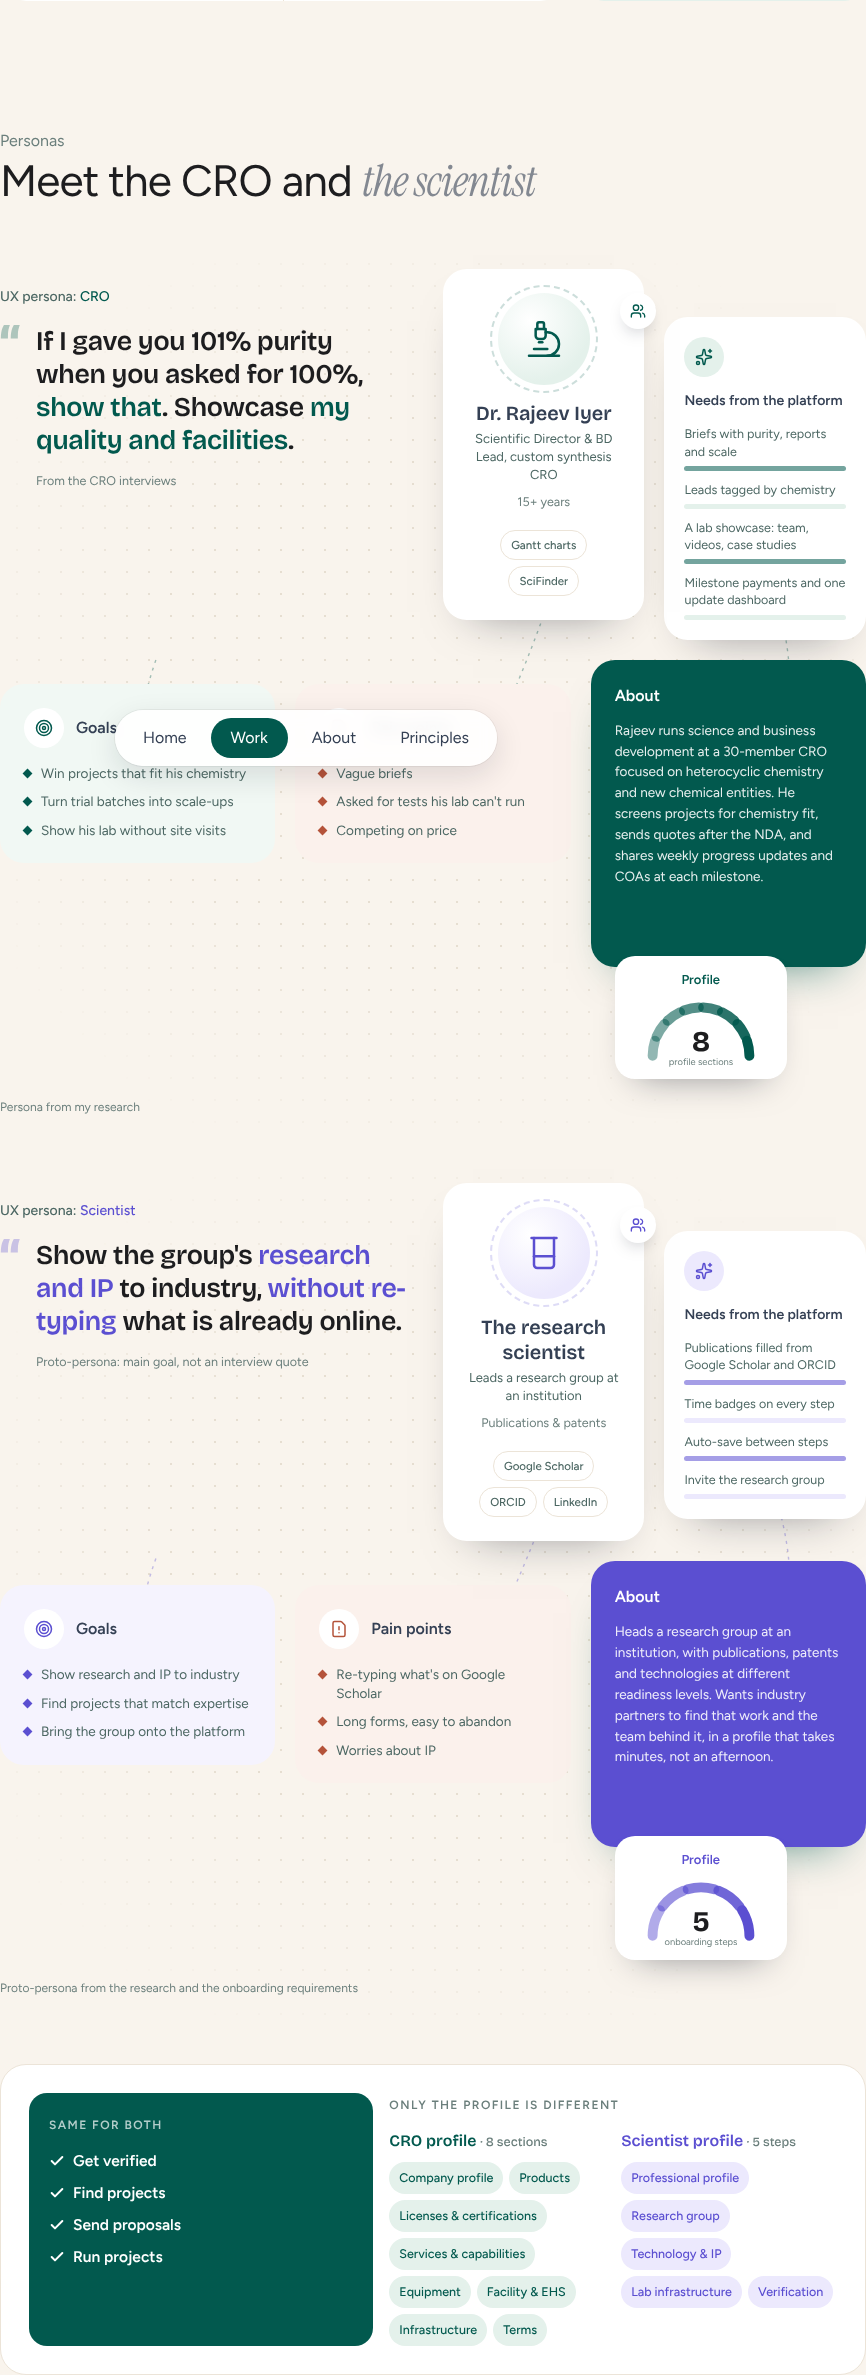
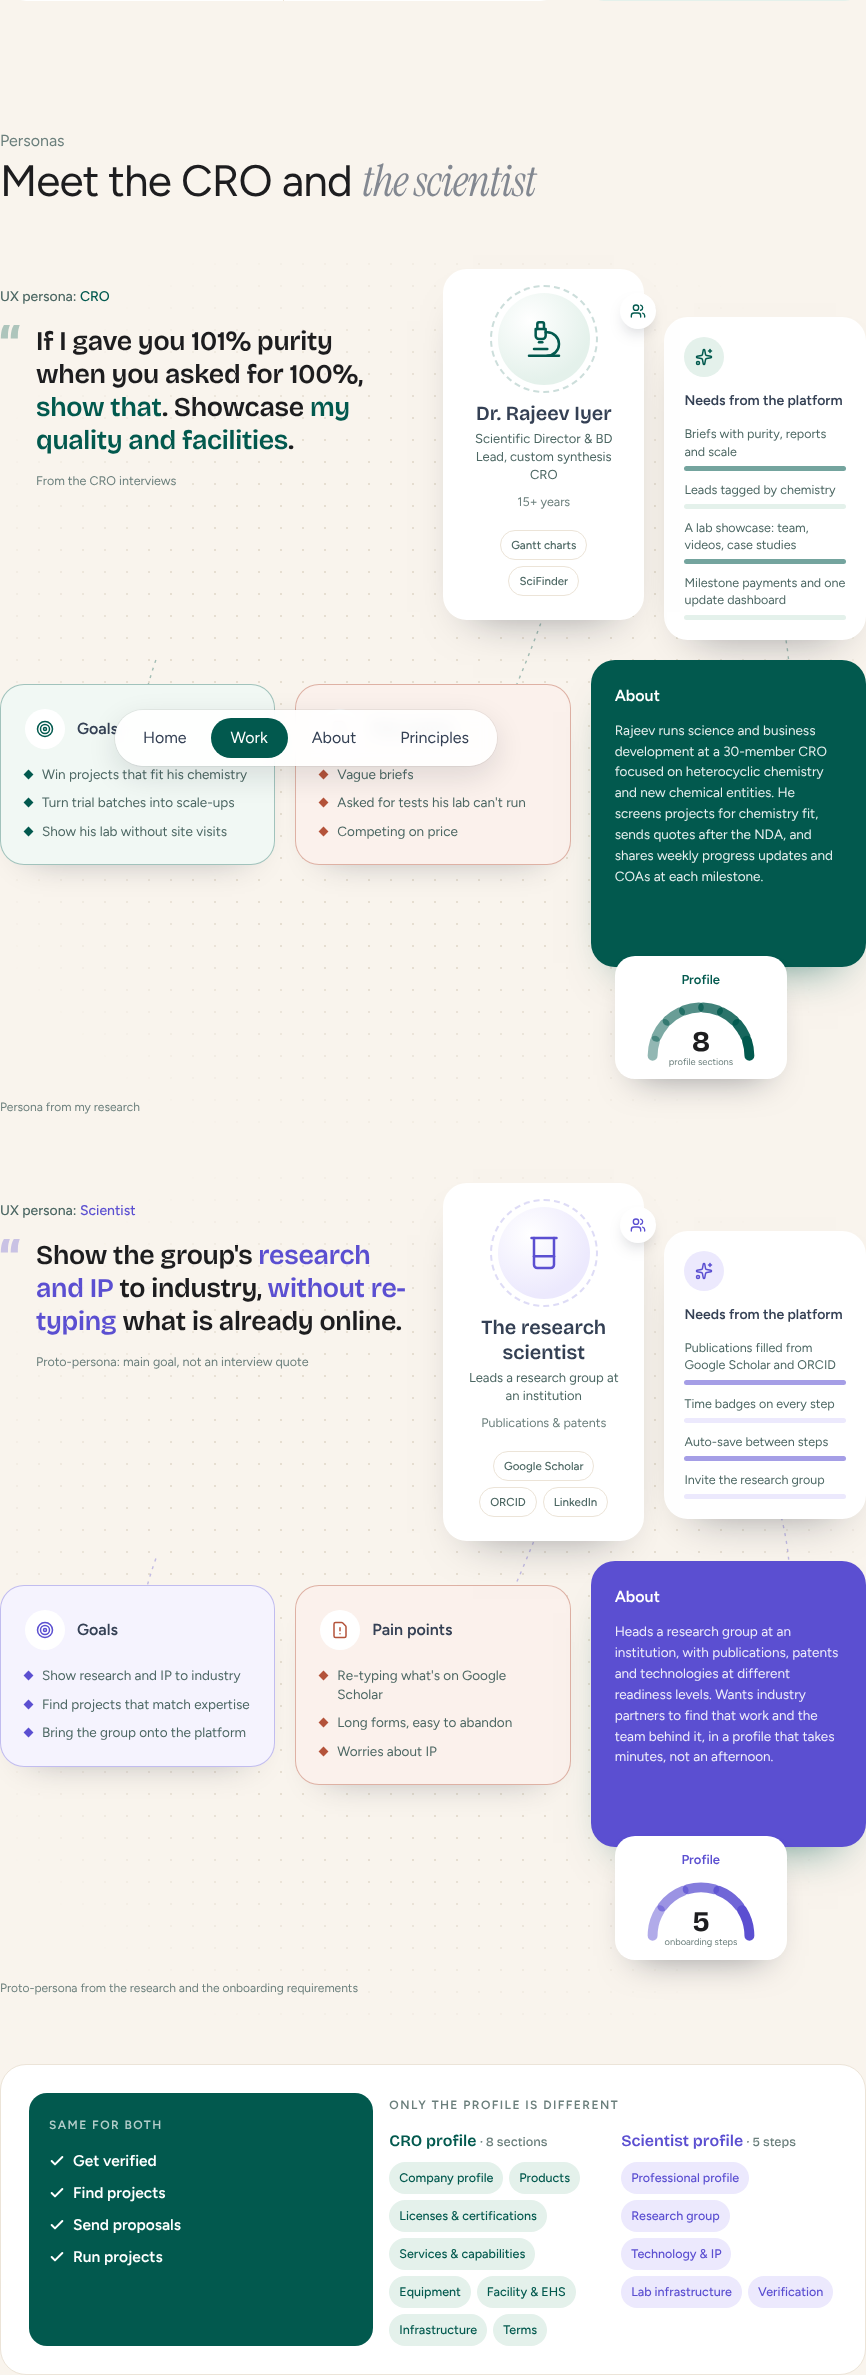
Scinode for Researchers: outline the persona Goals and Pain points cards for contrast
Claude-Session: https://claude.ai/code/session_019tdsjdycHUUKRYVh6BtvSG

diff --git a/src/components/scinode/researcher/diagrams.tsx b/src/components/scinode/researcher/diagrams.tsx
@@ -343,7 +343,7 @@ export function Personas() {
               </div>
 
               {/* goals */}
-              <div className="rounded-[24px] p-6 lg:col-span-4 lg:mt-6" style={{ background: soft }}>
+              <div className="rounded-[24px] border-[1.5px] p-6 shadow-[0_18px_36px_-30px_rgba(16,24,40,0.45)] lg:col-span-4 lg:mt-6" style={{ background: soft, borderColor: `${ink}8c` }}>
                 <p className="flex items-center gap-3 text-[16px] font-semibold text-ink">
                   <span className="grid size-10 place-items-center rounded-full bg-white" style={{ color: ink }}>
                     <Target className="size-[18px]" aria-hidden />
@@ -361,7 +361,7 @@ export function Personas() {
               </div>
 
               {/* pain points */}
-              <div className="rounded-[24px] bg-[#fbf1ec] p-6 lg:col-span-4 lg:mt-6">
+              <div className="rounded-[24px] border-[1.5px] border-[#b4533a]/55 bg-[#fbf1ec] p-6 shadow-[0_18px_36px_-30px_rgba(16,24,40,0.45)] lg:col-span-4 lg:mt-6">
                 <p className="flex items-center gap-3 text-[16px] font-semibold text-ink">
                   <span className="grid size-10 place-items-center rounded-full bg-white text-[#b4533a]">
                     <FileWarning className="size-[18px]" aria-hidden />
